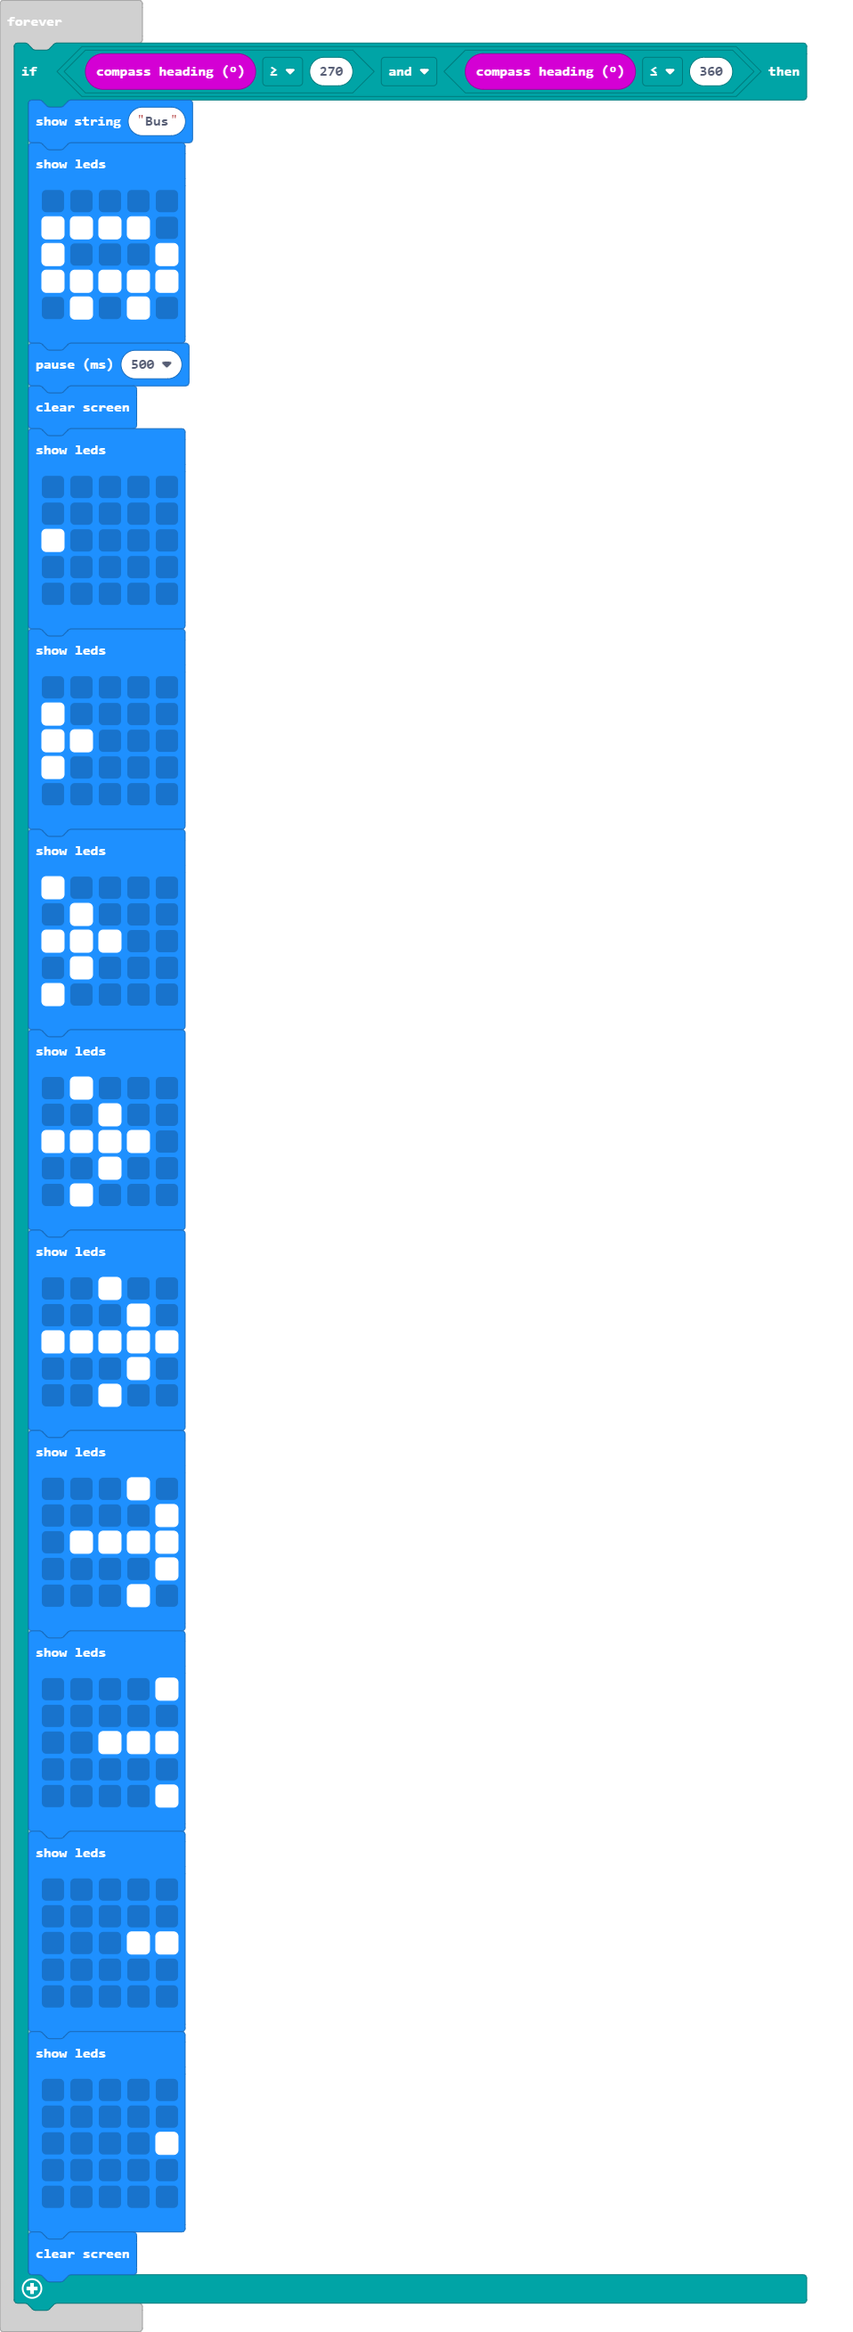
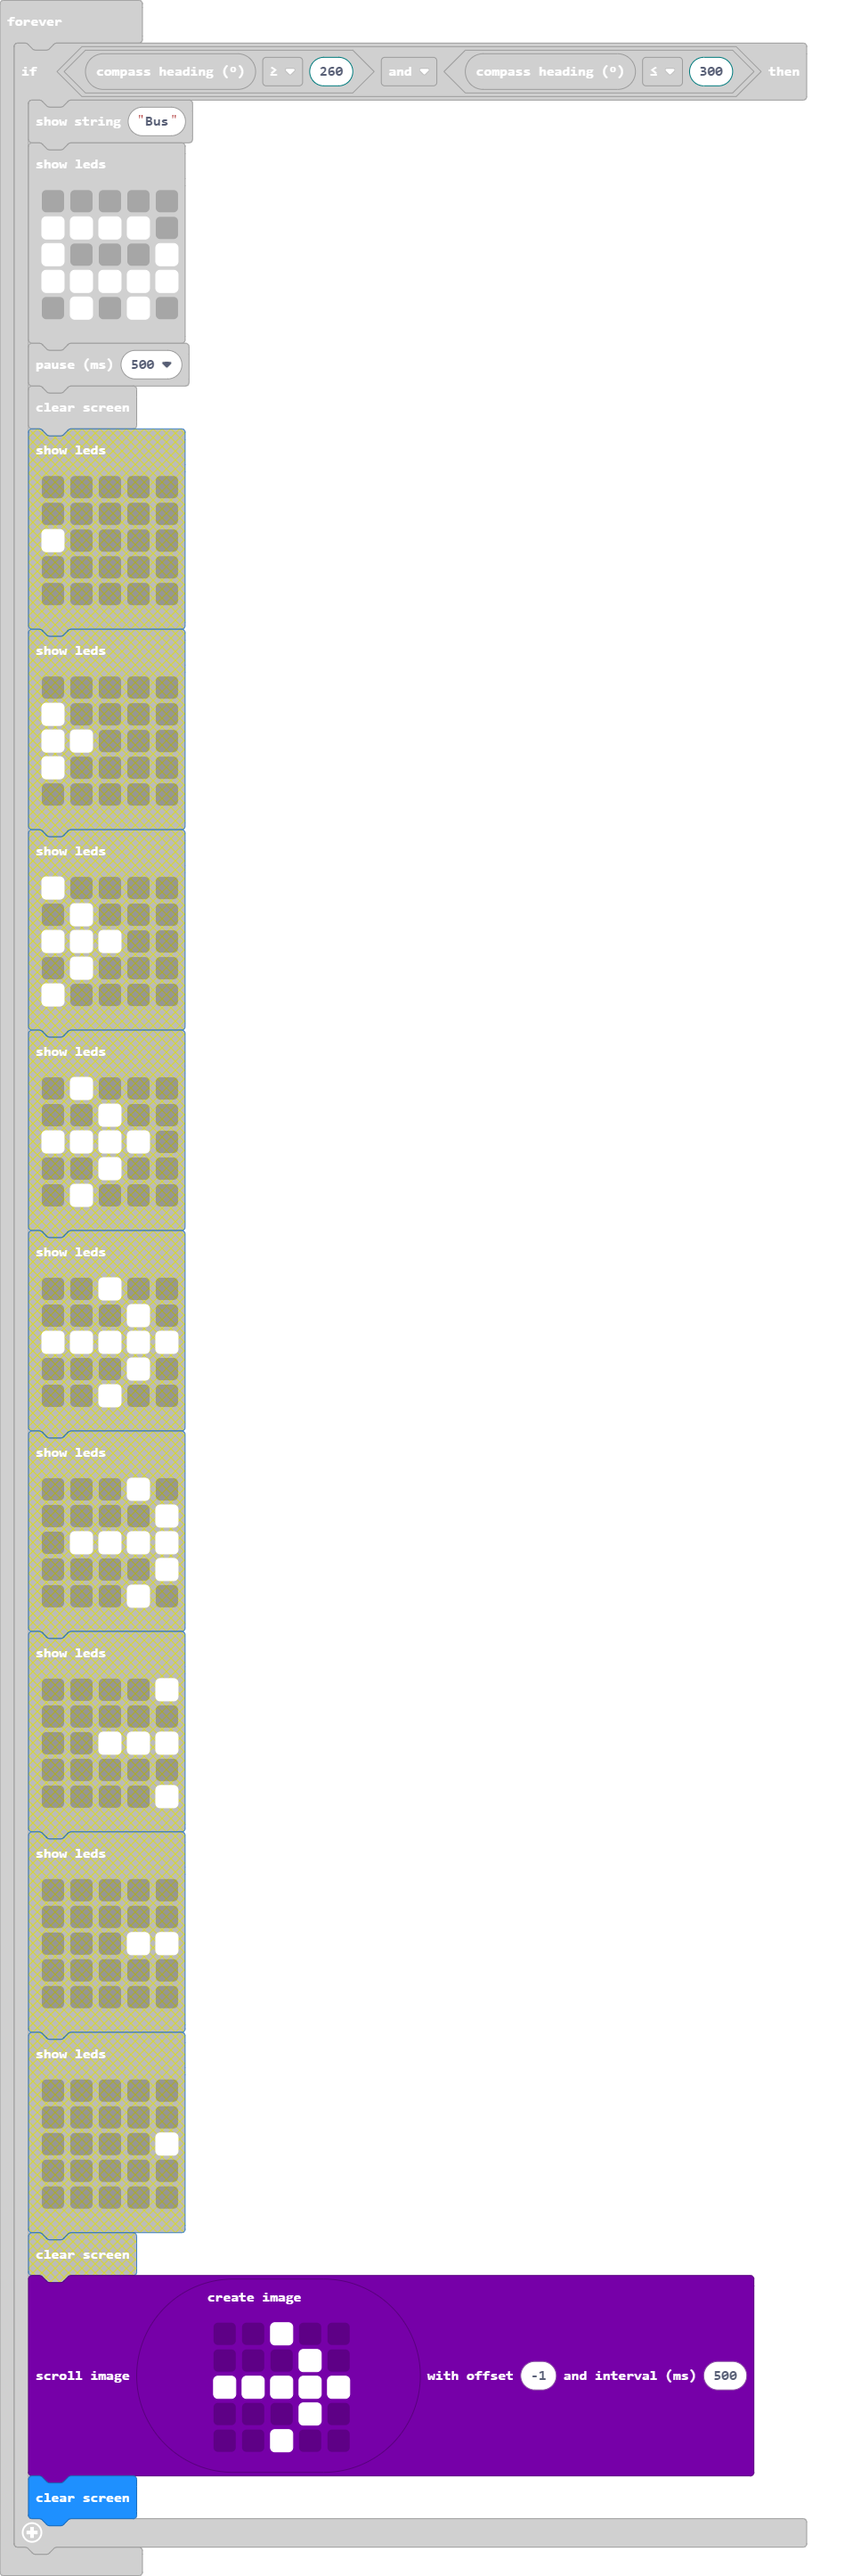
added scrolling image of arrow as image

Changed region(s): [[0.0, 0.0, 0.9687, 1.0]]

diff --git a/main.ts b/main.ts
@@ -1,5 +1,5 @@
 basic.forever(function () {
-    if (input.compassHeading() >= 270 && input.compassHeading() <= 360) {
+    if (input.compassHeading() >= 260 && input.compassHeading() <= 300) {
         basic.showString("Bus")
         basic.showLeds(`
             . . . . .
@@ -10,69 +10,13 @@ basic.forever(function () {
             `)
         basic.pause(500)
         basic.clearScreen()
-        basic.showLeds(`
-            . . . . .
-            . . . . .
-            # . . . .
-            . . . . .
-            . . . . .
-            `)
-        basic.showLeds(`
-            . . . . .
-            # . . . .
-            # # . . .
-            # . . . .
-            . . . . .
-            `)
-        basic.showLeds(`
-            # . . . .
-            . # . . .
-            # # # . .
-            . # . . .
-            # . . . .
-            `)
-        basic.showLeds(`
-            . # . . .
-            . . # . .
-            # # # # .
-            . . # . .
-            . # . . .
-            `)
-        basic.showLeds(`
+        images.createImage(`
             . . # . .
             . . . # .
             # # # # #
             . . . # .
             . . # . .
-            `)
-        basic.showLeds(`
-            . . . # .
-            . . . . #
-            . # # # #
-            . . . . #
-            . . . # .
-            `)
-        basic.showLeds(`
-            . . . . #
-            . . . . .
-            . . # # #
-            . . . . .
-            . . . . #
-            `)
-        basic.showLeds(`
-            . . . . .
-            . . . . .
-            . . . # #
-            . . . . .
-            . . . . .
-            `)
-        basic.showLeds(`
-            . . . . .
-            . . . . .
-            . . . . #
-            . . . . .
-            . . . . .
-            `)
+            `).scrollImage(-1, 500)
         basic.clearScreen()
     }
 })
